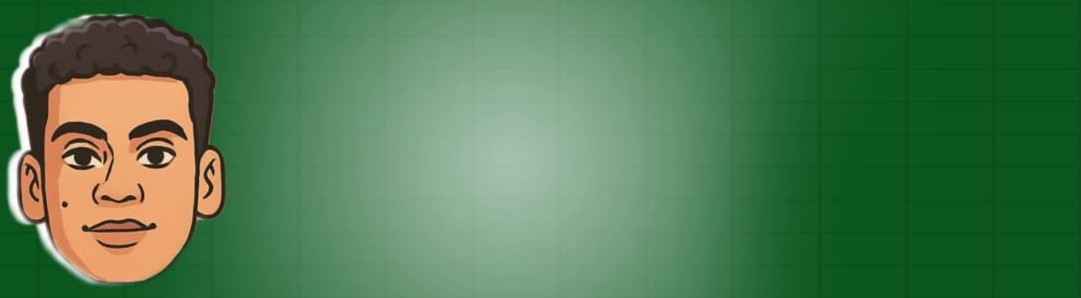
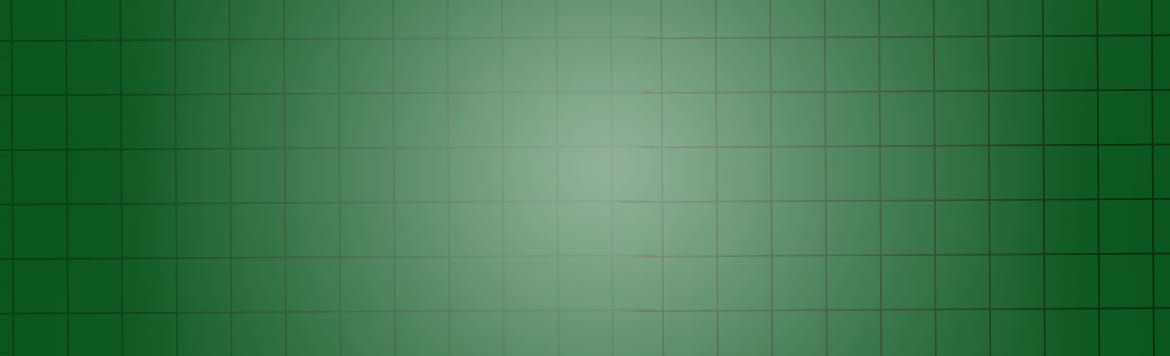
editing the home page

diff --git a/src/components/Footer.jsx b/src/components/Footer.jsx
@@ -4,31 +4,46 @@ import * as FaIcons from 'react-icons/fa';
 
 const Footer = () => {
   return (
-    <footer className=" text-black dark:text-white pt-6 pb-2 flex flex-col items-center justify-between gap-5  border-t-2 bg-no-repeat bg-cover bg-contain md:h-[55vh] " style={{ backgroundImage: 'url("./footer/bg.jpg")' }}>
+    <footer className=" text-white pt-6 md:pt-0 pb-2   border-t-3 border-gray-600 bg-no-repeat bg-cover bg-contain bg-gradient-to-r from-blue-900 via-blue-600 to-blue-300 ">
+
+      <div className='flex items-center justify-center md:justify-around gap-5 flex-col md:flex-row w-full'>
+        <div className='flex flex-col items-center justify-center gap-5 border-b-5 border-green-500 md:border-0'>
+          <img src="/home/face.png" alt="" className='w-20 md:w-50  cursor-pointer hover:scale-110 duration-500' />
+          <h1 className='text-2xl md:text-3xl text-white text-center md:text-right'>
+            <span className='text-white'> الاستاذ </span>
+            <span className='text-green-500'>محمد حميده</span>
+          </h1>
+          <p className='text-[#c4d14f] mb-5 md:mb-0'><span>❤❤</span> <span>الرياضيات بشكل تاني</span></p>
+        </div>
+        <div className='flex flex-col items-center justify-center gap-10'>
+          <h1>
+            <span className='text-gray-200 text-2xl md:text-3xl'>تواصل معنا</span>
+          </h1>
+          <div className="flex gap-5 items-center justify-center h-full">
+            {socialLinks.map((social) => {
+              return (
+                <a
+                  key={social.name}
+                  href={social.href}
+                  target="_blank"
+                  rel="noopener noreferrer"
+                  className="flex flex-col items-center justify-center gap-2"
+                  title={social.name}
+                >
+                  <img src={social.icon} alt={social.name} className="w-8 md:w-10 object-contain hover:scale-110 transition duration-300 ease-in-out" />
+                  <p className='text-gray-200 text-[10px]'>{social.name}</p>
+                </a>
+              );
+            })}
+          </div>
+        </div>
 
 
-      <div className="flex space-x-4 items-center justify-center h-full">
-        {socialLinks.map((social) => {
-          return(
-            <a
-              key={social.name}
-              href={social.href}
-              target="_blank"
-              rel="noopener noreferrer"
-              className="hover:scale-110 transition"
-              title={social.name}
-            >
-              <img src={social.icon} alt={social.name} className="w-5 md:w-10 object-contain" />
-            </a>
-          );
-        })}
+
+
       </div>
-      {/* <div>
-           <img src="./home/footer-logo.jpg" alt="" className='w-70 mr-5'/>
-      
-        </div> */}
 
-      <div className="mt-4  text-center text-[8px] md:text-lg ">
+      <div className="mt-10  text-center text-[10px] md:text-lg ">
         <a href='https://hema-cyan.vercel.app/' target='_blank'>
           &copy; {new Date().getFullYear()} HEMA All rights reserved.
         </a>

diff --git a/src/components/Fetures.jsx b/src/components/Fetures.jsx
@@ -3,6 +3,7 @@ import React, { useEffect, useRef } from 'react'
 import { Canvas, useFrame } from '@react-three/fiber'
 import { OrbitControls } from '@react-three/drei'
 import Book from './Book.jsx'
+import { services } from '../const/index.js'
 const Fetures = () => {
   const [IsMobile, setIsMobile] = React.useState(false);
   useEffect(() => {
@@ -35,12 +36,13 @@ const Fetures = () => {
 
 
   return (
-    <div className='flex justify-center flex-row my-10 text-center items-center gap-10 text-black dark:text-white'>
+    <section className='mb-30'>
+       <div className='flex justify-center flex-row my-10 text-center items-center gap-10 text-black dark:text-white'>
       <div className='w-1/4 md:w-1/3'>
         {IsMobile ? (
 
 
-          <Canvas camera={{ position: [0, 0, 13], fov: 75 }} style={{ height: '100%', width: '100%' }} >
+          <Canvas camera={{ position: [0, 0, 13], fov: 70 }} style={{ height: '100%', width: '100%' }} >
 
             <Scene />
           </Canvas>
@@ -48,7 +50,7 @@ const Fetures = () => {
 
         ) : (
 
-          <Canvas camera={{ position: [0, 0, 8], fov: 65 }} style={{ height: '35vh', width: '100%' }} >
+          <Canvas camera={{ position: [0, 0, 9], fov: 65 }} style={{ height: '30vh', width: '100%' }} >
 
             <Scene />
 
@@ -57,9 +59,21 @@ const Fetures = () => {
         )}
       </div>
 
-      <h1 className='text-2xl md:text-7xl text-black dark:text-white'> <span className='text-blue-500'>?..</span> خدماتنا</h1>
+      <h1 className='text-3xl md:text-7xl text-black dark:text-white'> <span className='text-blue-500'>?..</span> خدماتنا</h1>
 
     </div>
+    <div className='flex flex-col md:flex-row gap-10 items-center justify-center'>
+      {services.map((service) => {
+        return (
+          <div key={service.id} className= 'w-[300px] md:w-[350px] h-[300px] md:h-[350px] flex flex-col items-center justify-center text-center gap-10 p-5 mx-5 rounded-3xl bg-no-repeat bg-cover bg-contain ' style={{ backgroundImage: `url(${service.bg})` }}>
+            <img src={service.icon} className="w-20 md:w-35" alt="" />
+            <h1 className='text-2xl md:text-3xl text-black dark:text-white'>{service.description}</h1>
+          </div>
+        )
+      })}
+      </div>
+    </section>
+   
   )
 }
 

diff --git a/src/const/index.js b/src/const/index.js
@@ -40,28 +40,25 @@ export const Grade = [
    
 ];
 export const services = [
-  {
-    id: 1,
-    title: "شرح كامل للمنهج",
-  },
-  // {
-  //   id: 2,
-  //   title: "مذكرات وملخصات المنهج بتنزل مجانا مع الفيديوهات",
-  // },
-  // {
-  //   id: 3,
-  //   title: "شرح أسئلة مستويات التفكير العليا والأسئلة والمسائل المميزة في ريليز على فيسبوك ويوتيوب",
-  // },
-  // {
-  //   id: 4,
-  //   title: "أي سؤال يقف معاك ابعتهولنا على أرقامنا وهنواصل معاك ونفهمهولك",
-  // },
-  // {
-  //   id: 5,
-  //   title: "قنوات تيليجرام بينزل عليها واجبك وأسئلة جديدة بشكل مستمر",
-  // },
-  // {
-  //   id: 6,
-  //   title: "كل ده وأكثر مجانا عبر حساباتنا على YouTube وFacebook",
-  // }
+{
+  id:1,
+  description:"شرح كامل مبسط للمنهج",
+  bg:"/features/gray-bg.jpg",
+  icon:"/features/note.png"
+},
+{
+  id:2,
+  description:"شرح الرياضيات",
+  bg:"/features/blue-bg.jpg",
+  icon:"/features/note.png"
+
+},
+{
+  id:3,
+  description:"شرح الرياضيات",
+  bg:"/features/gray-bg-2.jpg",
+  icon:"/features/note.png"
+
+},
+
 ];

diff --git a/src/components/Navbar.jsx b/src/components/Navbar.jsx
@@ -32,7 +32,8 @@ const Navbar = () => {
   return (
     <nav className="fixed top-0 left-0 right-0 m-4  md:mx-50 px-4 rounded-xl flex justify-between items-center z-45 bg-gradient-to-r from-blue-500 via-blue-600 to-blue-700 ">
       <Link to="/" className="text-white text-2xl">
-        <img src='/home/logo-light.png' alt="logo" className="w-12 md:w-16 object-contain" />
+       <img src='/home/face.png' className=' w-12 md:w-16 object-contain'></img>
+        {/* <img src='/home/logo-light.png' alt="logo" className="w-12 md:w-16 object-contain" /> */}
       </Link>
 
       <div className='flex items-center gap-4'>
@@ -42,7 +43,7 @@ const Navbar = () => {
       >
        <img src='/home/navButton.gif' className='absolute w-20 object-contain'></img>
       </button>
-      <p className='text-white text-2xl text-bold'>{isDark ? 'dark': 'light'}</p>
+
       </div>
       
     </nav>

diff --git a/src/sections/Home.jsx b/src/sections/Home.jsx
@@ -17,8 +17,8 @@ const Home = () => {
     <>
       <Navbar />
 
-      <div className='flex flex-col items-center justify-between md:flex-row overflow-hidden'>
-        <div className='flex items-center justify-center h-full md:w-1/2 pt-20 md:pt-0 '>
+      <div className='flex flex-col items-center justify-between md:flex-row overflow-hidden '>
+        <div className='flex items-center justify-center h-full md:w-1/2 '>
           <img
             src="./home/hero.png"
             alt=""

diff --git a/src/components/Text.jsx b/src/components/Text.jsx
@@ -41,7 +41,7 @@ const Typewriter = () => {
   }, []);
 
   return (
-    <h1 className="text-3xl text-center text-black dark:text-white mx-2">
+    <h1 className="text-xl md:text-4xl text-center text-black dark:text-white mx-2">
       {texts[index].substring(0, subIndex)}
       <span className={`${blink ? 'opacity-100' : 'opacity-0'} transition-opacity`}>|</span>
     </h1>
